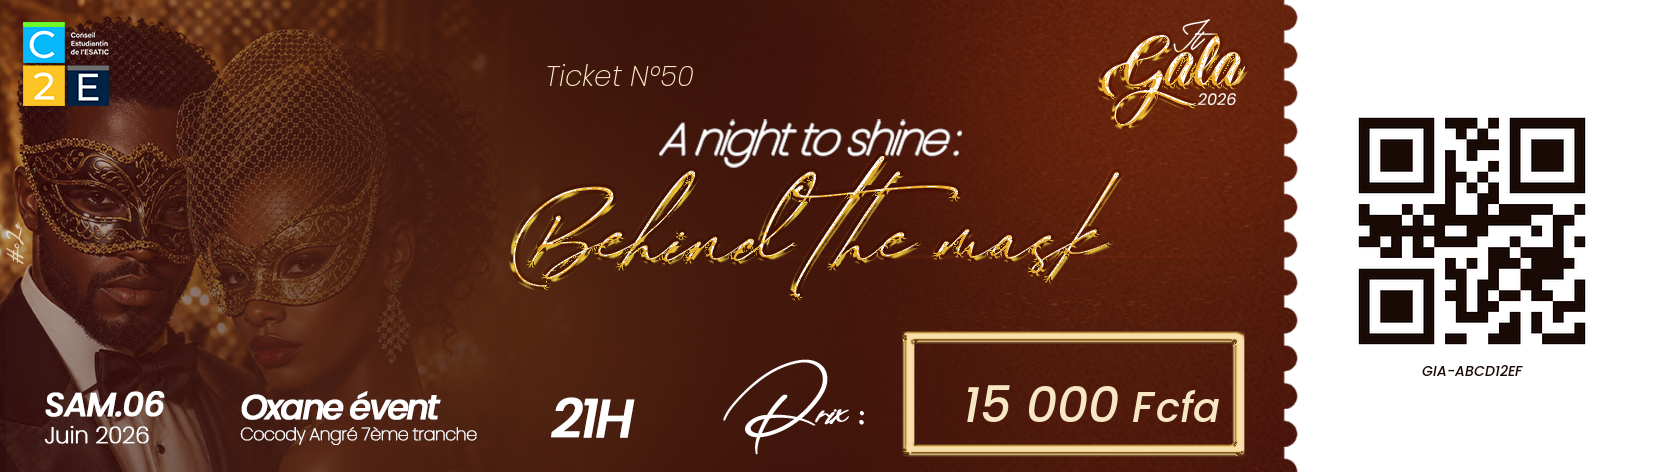
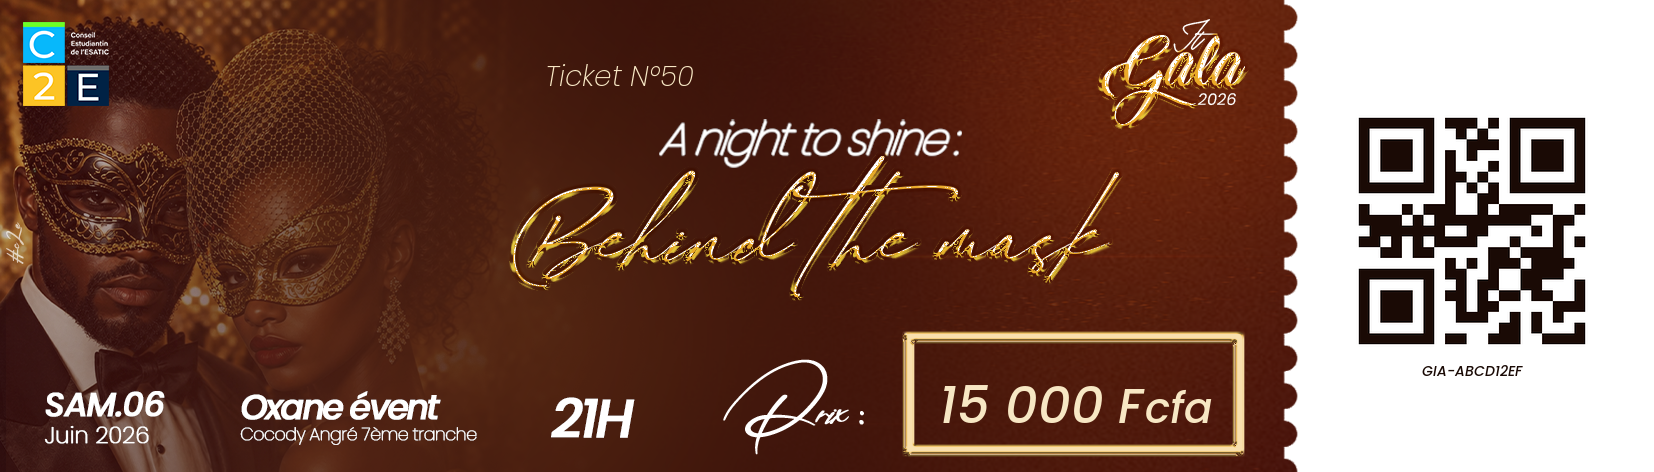
_

Changed region(s): [[0.555, 0.8008, 0.74, 0.9195]]

diff --git a/frontend/src/components/TicketQR.tsx b/frontend/src/components/TicketQR.tsx
@@ -21,7 +21,7 @@ import type { Gala, Ticket } from "@/lib/types";
 // Positions calibrees sur la template (1654 x 472 px).
 // Texte complet "Ticket N°{id}" : le template ne le contient pas.
 const POS_NUMBER = { left: "33%", top: "12%" };
-const POS_PRICE = { left: "66%", top: "84%" }; // centre du cadre dore
+const POS_PRICE = { left: "65%", top: "84%" }; // centre du cadre dore
 const POS_QR = { right: "5.5%", top: "49%", width: "15%" }; // centre sur l'espace blanc
 
 const DEBUG_OVERLAYS = false;
@@ -86,13 +86,13 @@ export function TicketQR({ ticket }: { ticket: Ticket; gala?: Gala | null }) {
             outline: DEBUG_OVERLAYS ? "2px solid #3bb6ff" : undefined,
           }}
         >
-          <span style={{ fontSize: "27px", verticalAlign: "baseline" }}>
+          <span style={{ fontSize: "28px", verticalAlign: "baseline" }}>
             {new Intl.NumberFormat("fr-FR").format(Math.round(ticket.price))}
           </span>
-          <span style={{ fontSize: "23px", verticalAlign: "baseline" }}>
+          <span style={{ fontSize: "26px", verticalAlign: "baseline" }}>
             {" F"}
           </span>
-          <span style={{ fontSize: "22px", verticalAlign: "baseline" }}>
+          <span style={{ fontSize: "23px", verticalAlign: "baseline" }}>
             cfa
           </span>
         </span>

diff --git a/backend/app/services/ticket_image.py b/backend/app/services/ticket_image.py
@@ -30,7 +30,7 @@ _TEMPLATE_H = 472
 #    Coordonnee = coin haut-gauche du texte.
 _NUMBER_POS_PCT = (0.33, 0.12)
 # 2. Prix : centre du cadre dore
-_PRICE_POS_PCT = (0.66, 0.84)
+_PRICE_POS_PCT = (0.65, 0.84)
 # 3. QR : centre de la zone blanche
 _QR_CENTER_PCT = (0.89, 0.49)
 _QR_SIZE_PCT = 0.15  # 15% of template width
@@ -45,9 +45,9 @@ _QR_DARK = (26, 10, 5)
 # (facteur ~1.83x entre 96 DPI / CSS et le pixel natif du template),
 # donc les valeurs CSS spec sont multipliees par ce facteur.
 _NUMBER_FONT_SIZE = 28   # Poppins ExtraLight Italic — "Ticket N°{id}" (11pt)
-_PRICE_NUMBER_SIZE = 49  # Poppins Medium Italic — chiffres du prix (27px CSS)
-_PRICE_F_SIZE = 42       # Poppins Medium Italic — "F" majuscule    (23px CSS)
-_PRICE_CFA_SIZE = 40     # Poppins Medium Italic — "cfa" minuscules (22px CSS)
+_PRICE_NUMBER_SIZE = 51  # Poppins Medium Italic — chiffres du prix (28px CSS)
+_PRICE_F_SIZE = 48       # Poppins Medium Italic — "F" majuscule    (26px CSS)
+_PRICE_CFA_SIZE = 42     # Poppins Medium Italic — "cfa" minuscules (23px CSS)
 _CODE_FONT_SIZE = 14     # monospace fallback sous le QR
 
 
